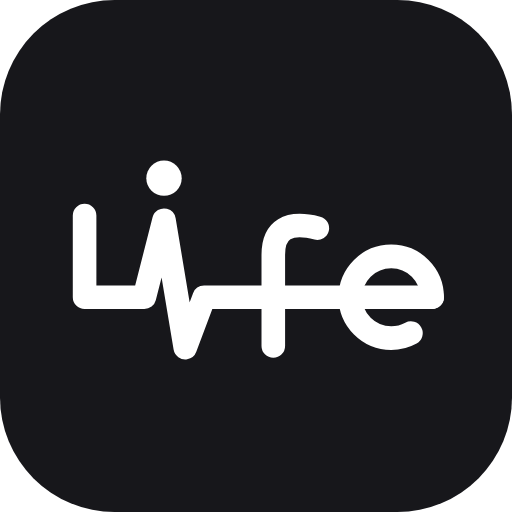
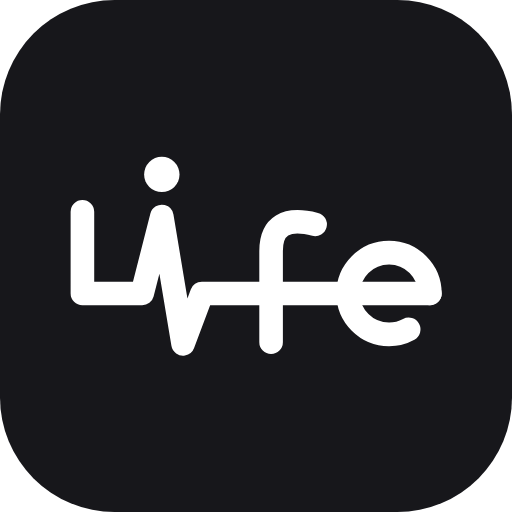
Знак в іконці став рівно по центру плитки (#44)
Він малювався по центру УМОВНОГО боксу, а бокс має запас згори під крапку
над «i» — тож насправді знак сидів на 2-3 пікселі правіше й на 4 нижче
центру. На око це не читається як зсув, читається як невиразне «щось не по
центру».

Тепер генератор міряє межі самого малюнка прямо на пікселях і центрує за
ними; масштаб теж рахується від ширини знака, а не боксу, тож розмір
лишився той самий (72% плитки, 59% у maskable).

Центр мас пробував і відкинув: масу тягнуть донизу довга горизонталь і
виносний елемент «f», і поправка на неї піднімала слово помітно вище, ніж
треба — знак починав висіти вгорі. Око читає смугу від верху «L» до
основної лінії, а її середина майже збігається із серединою меж.

Генератор переїхав у репозиторій — icons/build.html, на сайт не
викладається. Досі іконки не було чим відтворити.

Новий ui-tests/brand-icon.spec.js міряє межі в готовому PNG, тобто
незалежно від генератора: центр, розмір і запас під обрізку Android.
Перевірено, що зсув на 12 пікселів він валить. Сторінку тести беруть
найдешевшу (manifest.json замість застосунку) — інакше пʼять перевірок
коштували б двох хвилин замість двох секунд.

Claude-Session: https://claude.ai/code/session_011SFxU53Yk2yNQLJMEjVmsf

diff --git a/icons/build.html b/icons/build.html
@@ -1,0 +1,91 @@
+<!doctype html><html><head><meta charset="utf-8"><title>Генератор іконок Life</title></head><body>
+<p style="font:14px system-ui;max-width:46em;line-height:1.5">
+Генератор іконок застосунку. Відкрий цю сторінку в браузері й виконай у консолі
+<code>copy(JSON.stringify(OUT))</code> — або, як це робиться насправді, запусти її
+через Playwright і збережи <code>window.OUT</code> у файли
+<code>icons/icon-192.png</code>, <code>icon-512.png</code> та обидва
+<code>-maskable</code>. Знак описаний тут кодом, а не намальований у редакторі:
+так його можна перерахувати, а не перемальовувати.
+</p>
+<script>
+// Логотип Life: усе слово — одна лінія кардіограми. «L» стікає ніжкою в
+// лінію, хвиля пульсу працює як «i» (звідси й крапка над нею), з тієї ж
+// лінії росте «f» — вона ж його поперечка, — а «e» петлею випускає лінію
+// хвостом.
+const W = 560, H = 285, SHIFT = 45;
+const midY = 150 + SHIFT, capTop = 46 + SHIFT, desc = 212 + SHIFT;
+const Lx = 62, fx = 302, ecx = 452, er = 52;
+const SW = 30, TOP = 52 + SHIFT, BOT = 214 + SHIFT, DOT = 0.75, GAP = 16;
+const INK = '#ffffff', BG = '#17171B';
+
+function build(ctx) {
+  ctx.lineCap = 'round'; ctx.lineJoin = 'round'; ctx.lineWidth = SW; ctx.strokeStyle = INK;
+  ctx.beginPath();
+  ctx.moveTo(Lx, capTop); ctx.lineTo(Lx, midY);      // «L»
+  ctx.lineTo(138, midY);
+  ctx.lineTo(163, TOP);                              // хвиля пульсу — вона ж «i»
+  ctx.lineTo(190, BOT);
+  ctx.lineTo(214, midY);
+  ctx.lineTo(ecx + er, midY);                        // і далі поперечкою до «e»
+  ctx.stroke();
+  ctx.beginPath();                                   // «f»
+  ctx.moveTo(fx, desc); ctx.lineTo(fx, 96 + SHIFT);
+  ctx.quadraticCurveTo(fx, 48 + SHIFT, fx + 56, 62 + SHIFT);
+  ctx.stroke();
+  ctx.beginPath();                                   // «e»
+  ctx.arc(ecx, midY, er, 0, Math.PI * 0.34, true);
+  ctx.stroke();
+  ctx.fillStyle = INK; ctx.beginPath();              // крапка над «i»
+  ctx.arc(163, TOP - SW / 2 - GAP - SW * DOT, SW * DOT, 0, Math.PI * 2); ctx.fill();
+}
+
+// Знак центрується за СОБОЮ, а не за умовним боксом: бокс має запас під
+// крапку згори, тож центрування по ньому зсувало малюнок униз і праворуч.
+// Міряємо межі прямо на пікселях — тоді ніяких «на око» тут не лишається, і
+// мірка сама виправиться, якщо колись зміниться форма.
+//
+// Саме межі, а не центр мас: масу тягнуть донизу довга горизонталь і виносний
+// елемент «f», і поправка на неї піднімає слово помітно вище, ніж треба.
+// Око ж читає смугу від верху «L» до основної лінії, а її середина майже
+// збігається із серединою меж.
+function anchor() {
+  const S = 1000, k = S / W;
+  const c = document.createElement('canvas');
+  c.width = S; c.height = Math.round(H * k);
+  const ctx = c.getContext('2d'); ctx.scale(k, k); build(ctx);
+  const d = ctx.getImageData(0, 0, c.width, c.height).data;
+  let x0 = 1e9, y0 = 1e9, x1 = -1, y1 = -1;
+  for (let y = 0; y < c.height; y++) for (let x = 0; x < c.width; x++) {
+    if (d[(y * c.width + x) * 4 + 3] > 128) {
+      if (x < x0) x0 = x; if (x > x1) x1 = x;
+      if (y < y0) y0 = y; if (y > y1) y1 = y;
+    }
+  }
+  return { x: (x0 + x1) / 2 / k, y: (y0 + y1) / 2 / k, w: (x1 - x0) / k, h: (y1 - y0) / k };
+}
+const A = anchor();
+
+// maskable: тло на весь квадрат (систему саме воно й обріже), знак
+// стискаємо в безпечне коло — інакше Android зріже «L» та хвіст «e».
+function make(S, maskable) {
+  const c = document.createElement('canvas'); c.width = c.height = S;
+  const ctx = c.getContext('2d');
+  ctx.fillStyle = BG;
+  if (maskable) ctx.fillRect(0, 0, S, S);
+  else { ctx.beginPath(); ctx.roundRect(0, 0, S, S, S * 0.2237); ctx.fill(); }
+  ctx.save();
+  // Частка плитки, яку займає знак. Рахується від ЙОГО ширини, а не від
+  // умовного боксу, тож розмір не поповзе, якщо колись зміниться форма.
+  const k = (S * (maskable ? 0.589 : 0.724)) / A.w;
+  ctx.translate(S / 2 - A.x * k, S / 2 - A.y * k);
+  ctx.scale(k, k);
+  build(ctx); ctx.restore();
+  return c.toDataURL('image/png');
+}
+window.ANCHOR = A;
+window.OUT = {
+  'icon-192': make(192, false), 'icon-512': make(512, false),
+  'icon-192-maskable': make(192, true), 'icon-512-maskable': make(512, true),
+};
+window.READY = true;
+</script></body></html>

diff --git a/ui-tests/brand-icon.spec.js b/ui-tests/brand-icon.spec.js
@@ -1,0 +1,82 @@
+// Іконка застосунку: знак має стояти в плитці рівно по центру.
+//
+// Це та поломка, якої не видно ні в коді, ні в діффі — тільки на телефоні,
+// і то як невиразне «щось не так». Так уже було: знак малювався по центру
+// УМОВНОГО боксу, а бокс має запас згори під крапку над «i», тож насправді
+// малюнок сидів на кілька пікселів нижче й правіше. Тепер генератор
+// (`icons/build.html`) міряє межі самого малюнка на пікселях — і цей тест
+// перевіряє результат тим самим способом, незалежно від генератора.
+const { test, expect } = require('@playwright/test');
+
+/** Межі білого знака всередині готового PNG. */
+async function inkBox(page, src) {
+  return page.evaluate((url) => new Promise((resolve, reject) => {
+    const img = new Image();
+    img.onerror = () => reject(new Error('не завантажилась: ' + url));
+    img.onload = () => {
+      const c = document.createElement('canvas');
+      c.width = img.width; c.height = img.height;
+      const ctx = c.getContext('2d');
+      ctx.drawImage(img, 0, 0);
+      const d = ctx.getImageData(0, 0, c.width, c.height).data;
+      // Знак білий на майже чорному, тож «фарба» — це явно світлі пікселі.
+      let x0 = Infinity, y0 = Infinity, x1 = -1, y1 = -1;
+      for (let y = 0; y < c.height; y++) {
+        for (let x = 0; x < c.width; x++) {
+          const i = (y * c.width + x) * 4;
+          if (d[i] > 128 && d[i + 3] > 128) {
+            if (x < x0) x0 = x;
+            if (x > x1) x1 = x;
+            if (y < y0) y0 = y;
+            if (y > y1) y1 = y;
+          }
+        }
+      }
+      resolve({
+        size: c.width,
+        left: x0, right: c.width - 1 - x1,
+        top: y0, bottom: c.height - 1 - y1,
+        width: x1 - x0 + 1, height: y1 - y0 + 1,
+      });
+    };
+    img.src = url;
+  }), src);
+}
+
+const ICONS = [
+  ['/icons/icon-192.png', 0.73],
+  ['/icons/icon-512.png', 0.73],
+  ['/icons/icon-192-maskable.png', 0.60],
+  ['/icons/icon-512-maskable.png', 0.60],
+];
+
+// Сторінку беремо найдешевшу з можливих: тестам потрібне лише те саме
+// походження, щоб canvas міг прочитати пікселі іконки. Піднімати заради
+// цього застосунок — це Firebase, шрифти й кілька секунд на кожен тест.
+test.beforeEach(async ({ page }) => { await page.goto('/manifest.json'); });
+
+for (const [src, fill] of ICONS) {
+  test(`${src}: знак по центру й потрібного розміру`, async ({ page }) => {
+    const box = await inkBox(page, src);
+
+    // Допуск — один відсоток сторони: рівно стільки дає округлення до пікселя
+    // на 192, і рівно стільки ще не видно оком.
+    const tol = Math.max(2, box.size * 0.01);
+    expect(Math.abs(box.left - box.right)).toBeLessThanOrEqual(tol);
+    expect(Math.abs(box.top - box.bottom)).toBeLessThanOrEqual(tol);
+
+    // Завеликий знак упреться в край (а на Android — і в обрізку), замалий
+    // загубиться серед сусідів на робочому столі.
+    expect(box.width / box.size).toBeGreaterThan(fill - 0.06);
+    expect(box.width / box.size).toBeLessThan(fill + 0.06);
+  });
+}
+
+test('maskable-версія лишає запас під обрізку Android', async ({ page }) => {
+  // Android обрізає іконку довільною формою й гарантує лише центральне коло
+  // у 80% сторони. Знак має вміститись у нього цілком — інакше зріже «L» та
+  // хвіст «e».
+  const box = await inkBox(page, '/icons/icon-512-maskable.png');
+  const radius = Math.hypot(box.width, box.height) / 2;
+  expect(radius).toBeLessThan(box.size * 0.40);
+});
